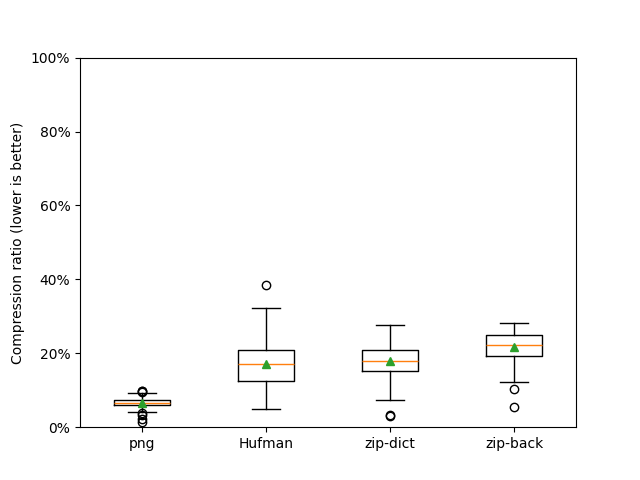
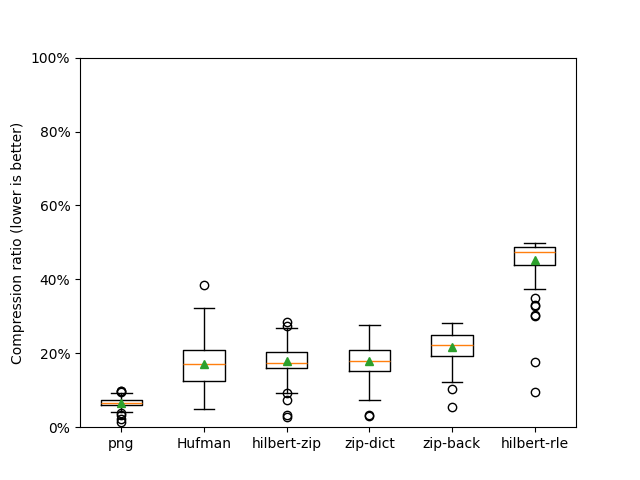
Add the Hilbert codecs to the diagrams and the README

diff --git a/src/codec/hilbertc.rs b/src/codec/hilbertc.rs
@@ -236,7 +236,7 @@ impl RunningAvg {
         let color_f64 = self.avg_f64();
         let safe_convert = |x: f64| {
             assert!(x <= u8::MAX as f64, "{}", x);
-            x as u8
+            x.round() as u8
         };
         let color_u8 = Rgb(color_f64.map(safe_convert));
         // print!(" = {:?}", &color_u8);

diff --git a/README.md b/README.md
@@ -23,6 +23,8 @@ Legend:
 * `Hufman`: Hufman-coding the pixel colors
 * `zip-dict`: Zip-inspired online dictionary building
 * `zip-back`: Zip-inspired lookback compression
+* `hilbert-rle`: Run-Length Encoding on a Hilbert curve traversal
+* `hilbert-zip`: `zip-dict` on a Hilbert curve traversal
 
 #### Lossy codecs
 
@@ -39,6 +41,10 @@ Legend:
   * results are shown for 64 centroids (left), 128, 256, 512, 1024 and 2048 (right)
 * `zip-dict`: Zip-inspired online dictionary building
 * `zip-back`: Zip-inspired lookback compression
+* `hilbert-rle`: Run-Length Encoding on a Hilbert curve traversal
+* `hilbert-rle-approx`: Approximate Run-Length Encoding on a Hilbert curve traversal
+  * running average with an allowed color distance of 1 (bottom right), 2, 4, 8, 16 (top left)
+* `hilbert-zip`: `zip-dict` on a Hilbert curve traversal
 
 ### ASCII art codec descriptions
 
@@ -74,4 +80,63 @@ output:                      |                  |           |
      Copy 2 bytes                                           |
   3. Go back 6 bytes      ----------------------------------+
      Copy 2 bytes
+```
+
+#### hilbert codecs
+
+```
+   Hilbert
+  traversal
+                    +----------+
+ 5--6  9--a         |6  8  7  7|
+ |  |  |  |         |          |
+ 4  7--8  b         |6  8  7  8|
+ |        |         |          |
+ 3--2  d--c         |7  5  9  9|
+    |  |            |          |
+ 0--1  e--f         |3  3  8  9|
+                    +----------+
+     |                   |
+     +---------+---------+
+               |
+               v
+ 0 1 2 3 4 5 6 7 8 9 a b c d e f
++-------------------------------+
+|3 3 5 7 6 6 8 8 7 7 7 8 9 9 8 9|
++-------------------------------+
+|
++--> hilbert-rle
+|
+|    [3 3] [5] [7] [6 6] [8 8] [7 7 7] [8] [9 9] [8] [9]
+|      |    |   ...
+|      v    v
+|     2x3  1x5  1x7  2x6  2x8  3x7  1x8  2x9  1x8  1x9
+|
+|
++--> hilbert-rle-approx
+|    assuming allowance = 1
+|
+|    idx  value  distance            output  running-avg
+|     0     3                          no       3
+|     1     3    abs(3 - 3) = 0 < 1    no       3
+|     2     5    abs(3 - 5) = 2 > 1    2x3      5
+|     3     7    abs(5 - 7) = 2 > 1    1x5      7
+|     4     6    abs(7 - 6) = 1        no       6.5
+|     5     6    abs(6.5-6) = .5 < 1   no       6.33
+|     6     8    1.66 > 1              3x6      8
+|                .
+|                .
+|                .
+|
+|    output: 2x3 1x5 3x6 6x8 4x9
+|
+|
++--> hilbert-zip
+
+     3 3 5 7 6 6 8 8 7 7 7 8 9 9 8 9
+                  |
+               zip-dict
+                  |
+                  v
+     0x0003 0x0003 0x0005 0x0007 0x0006 ...
 ```
